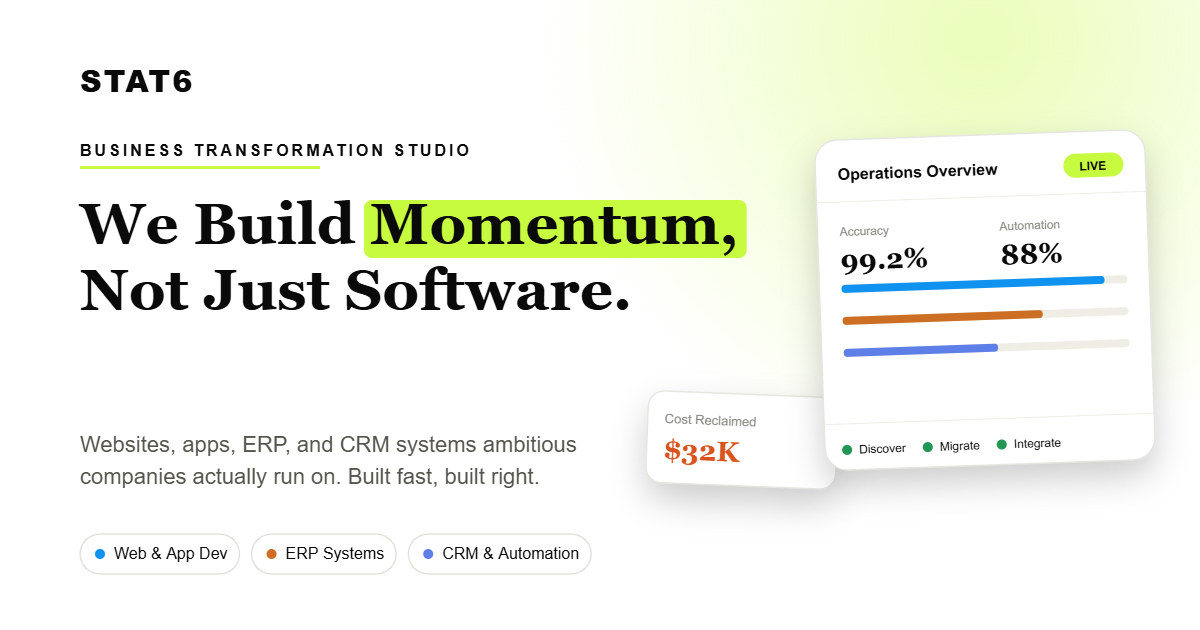
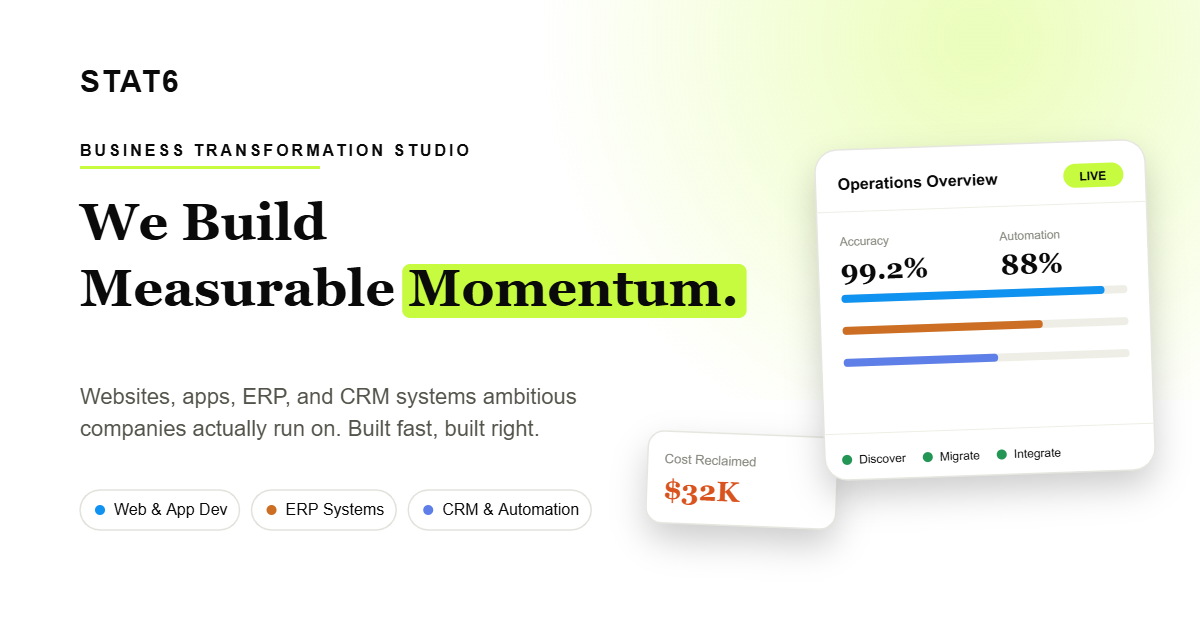
.

diff --git a/src/data/content/services.ts b/src/data/content/services.ts
@@ -62,13 +62,13 @@ export const services: ServiceConfig[] = [
     slug: "website-development",
     index: "01",
     name: "Website Development",
-    tagline: "Sites built to convert, not just exist.",
+    tagline: "Sites built to convert, engineered to scale.",
     body: "Marketing sites, e-commerce, and web platforms engineered for speed, SEO, and motion-driven storytelling.",
     image: "https://images.unsplash.com/photo-1614741118887-7a4ee193a5fa?w=1600&q=80&fm=jpg&fit=crop&auto=format",
     element: "water",
     hero: {
       eyebrow: "Website Development",
-      headline: "Build a Website That Grows Your Business. Not Your Maintenance Costs.",
+      headline: "Build a Website That Grows Your Business.",
       subhead:
         "Your website should be your best salesperson, working 24 hours a day to turn attention into revenue.",
       primaryCta: "Book Consultation",
@@ -172,12 +172,12 @@ export const services: ServiceConfig[] = [
       eyebrow: "App Development",
       headline: "Build an App Customers Actually Return To.",
       subhead:
-        "The market doesn't need more apps. It needs experiences worth opening twice.",
+        "What the market needs is experiences worth opening twice.",
       primaryCta: "Book Consultation",
       secondaryCta: "View Projects",
     },
     problem: {
-      headline: "Businesses don't have an app problem.",
+      headline: "The real problem is retention.",
       body: "They have a retention problem. Most apps are downloaded once and never opened again, because they were built to launch, not to be used.",
     },
     costOfInaction: {
@@ -265,12 +265,12 @@ export const services: ServiceConfig[] = [
       eyebrow: "ERP Solutions",
       headline: "One Operating System For Your Entire Business.",
       subhead:
-        "You don't have an ERP problem. You have an operational complexity problem, and disconnected tools made it worse.",
+        "You have an operational complexity problem, and disconnected tools made it worse.",
       primaryCta: "Book Consultation",
       secondaryCta: "View Projects",
     },
     problem: {
-      headline: "You don't need customer software.",
+      headline: "The real problem is disconnected systems.",
       body: "You need one place where inventory, finance, and operations finally agree with each other. Every disconnected spreadsheet is a decision made on outdated information.",
     },
     costOfInaction: {
@@ -358,12 +358,12 @@ export const services: ServiceConfig[] = [
       eyebrow: "CRM Solutions",
       headline: "Every Customer. Every Conversation. One Intelligent Relationship.",
       subhead:
-        "You don't need customer software. You need stronger customer relationships, systemised, not left to memory.",
+        "You need stronger customer relationships, systemised instead of left to memory.",
       primaryCta: "Book Consultation",
       secondaryCta: "View Projects",
     },
     problem: {
-      headline: "Leads aren't disappearing. They're falling through cracks in your process.",
+      headline: "Leads are falling through cracks in your process.",
       body: "Most CRM failures aren't a software problem, they're a workflow mismatch. A CRM your team fights against will always lose to the spreadsheet they trust more.",
     },
     costOfInaction: {
@@ -443,7 +443,7 @@ export const services: ServiceConfig[] = [
     slug: "digital-marketing",
     index: "05",
     name: "Digital Marketing",
-    tagline: "Growth, measured in pipeline, not impressions.",
+    tagline: "Growth, measured in pipeline and revenue.",
     body: "Performance marketing, SEO, and paid media run by a team that ships the website too, so strategy never disconnects.",
     image: "https://images.unsplash.com/photo-1551288049-bebda4e38f71?w=1600&q=80&fm=jpg&fit=crop&auto=format",
     element: "fire",
@@ -451,12 +451,12 @@ export const services: ServiceConfig[] = [
       eyebrow: "Digital Marketing",
       headline: "Growth Engineered For Measurable Outcomes.",
       subhead:
-        "Marketing isn't a campaign. It's a growth engine, built, measured, and improved like any other system.",
+        "Marketing is a growth engine, built, measured, and improved like any other system.",
       primaryCta: "Book Consultation",
       secondaryCta: "View Projects",
     },
     problem: {
-      headline: "Impressions don't pay invoices.",
+      headline: "What pays invoices is pipeline.",
       body: "Most marketing engagements optimise for metrics that look good in a report and mean nothing to your revenue. We build for pipeline, not vanity metrics.",
     },
     costOfInaction: {
@@ -549,7 +549,7 @@ export const services: ServiceConfig[] = [
       secondaryCta: "View Projects",
     },
     problem: {
-      headline: "Most brands don't have a content problem.",
+      headline: "The real problem is consistency.",
       body: "They have a consistency problem. Sporadic posting from an overstretched internal team reads as absence, and absence erodes trust faster than imperfect content ever could.",
     },
     costOfInaction: {

diff --git a/src/data/content/homepage.ts b/src/data/content/homepage.ts
@@ -1,6 +1,6 @@
 export const hero = {
   eyebrow: "Business Transformation Studio",
-  headline: "We Build Momentum, Not Just Software.",
+  headline: "We Build Measurable Momentum.",
   emphasis: "Momentum",
   subhead:
     "One team engineering the websites, apps, ERP, and CRM systems ambitious companies actually run on. Built fast. Built right. Built to scale.",
@@ -15,8 +15,8 @@ export const hero = {
 };
 
 export const realityCheck = {
-  headline: "Most businesses don't need more software.",
-  secondHeadline: "They need better systems.",
+  headline: "Every business already runs on software.",
+  secondHeadline: "The real answer is better systems.",
   body: "Businesses spend thousands on software. Yet their teams still copy data between spreadsheets. Still answer repetitive emails. Still lose leads. Still waste time. Technology isn't the problem. Disconnected thinking is.",
   cta: "See How We Solve This",
 };
@@ -33,7 +33,7 @@ export const challenges: Challenge[] = [
 ];
 
 export const whyTechFails = {
-  quote: "Technology doesn't fail. Poor implementation does.",
+  quote: "Great implementation is what makes technology work.",
   genericAgency: ["Build website", "Invoice", "Leave"],
   trafy: ["Research", "Strategy", "Development", "Automation", "Support", "Growth"],
 };

diff --git a/src/data/content/site.ts b/src/data/content/site.ts
@@ -1,7 +1,7 @@
 export const brand = {
   name: "Stat6",
   fullName: "Stat6 AI",
-  statement: "We don't build software. We build business momentum.",
+  statement: "We build software that becomes business momentum.",
   email: "hello@stat6.ai",
 };
 
@@ -29,7 +29,7 @@ export const footerColumns = {
 export const about = {
   hero: {
     eyebrow: "About Stat6",
-    headline: "We don't build software. We build momentum.",
+    headline: "We engineer momentum, one system at a time.",
     subhead:
       "Stat6 is a business transformation studio, a small team that treats every website, product, and system as infrastructure for growth, not a one-off deliverable.",
     image: "https://images.unsplash.com/photo-1556761175-b413da4baf72?w=1600&q=80&fm=jpg&fit=crop&auto=format",

diff --git a/src/components/layout/Footer.tsx b/src/components/layout/Footer.tsx
@@ -8,7 +8,7 @@ export function Footer() {
     <footer className="relative bg-background border-t border-border">
       <div className="max-w-7xl mx-auto px-6 lg:px-10 py-16 lg:py-20 grid grid-cols-2 md:grid-cols-4 gap-10">
         <div className="col-span-2 md:col-span-2">
-          <span className="text-2xl tracking-tighter font-brand text-foreground uppercase">{brand.name}</span>
+          <span className="text-2xl tracking-tighter font-brand font-semibold text-foreground uppercase">{brand.name}</span>
           <p className="mt-4 max-w-xs text-base text-muted-foreground leading-relaxed">{brand.statement}</p>
         </div>
 

diff --git a/src/components/layout/Nav.tsx b/src/components/layout/Nav.tsx
@@ -49,7 +49,7 @@ export function Nav() {
             initial={reducedMotion ? { opacity: 1, y: 0 } : { opacity: 0, y: -6 }}
             animate={{ opacity: 1, y: 0 }}
             transition={{ duration: 0.6, delay: reducedMotion ? 0 : 0.3, ease: [0.16, 1, 0.3, 1] }}
-            className="text-2xl tracking-tighter text-foreground font-brand uppercase"
+            className="text-2xl tracking-tighter text-foreground font-brand font-semibold uppercase"
           >
             {brand.name}
           </motion.span>

diff --git a/index.html b/index.html
@@ -34,7 +34,7 @@
     <link rel="preconnect" href="https://fonts.googleapis.com" />
     <link rel="preconnect" href="https://fonts.gstatic.com" crossorigin />
     <link
-      href="https://fonts.googleapis.com/css2?family=Almarai:wght@300;400;700;800&family=Instrument+Serif:ital@1&family=Archivo+Black&display=swap"
+      href="https://fonts.googleapis.com/css2?family=Almarai:wght@300;400;700;800&family=Instrument+Serif:ital@1&family=Archivo:wght@500;600;700&display=swap"
       rel="stylesheet"
     />
   </head>

diff --git a/src/index.css b/src/index.css
@@ -89,7 +89,7 @@
 
   --font-display: "Instrument Serif", serif;
   --font-body: "Inter", -apple-system, BlinkMacSystemFont, "Segoe UI", sans-serif;
-  --font-brand: "Archivo Black", -apple-system, BlinkMacSystemFont, "Segoe UI", sans-serif;
+  --font-brand: "Archivo", -apple-system, BlinkMacSystemFont, "Segoe UI", sans-serif;
 
   /* Semantic type scale */
   --text-display-xl: clamp(4rem, 4.5rem + 3vw, 9rem);
